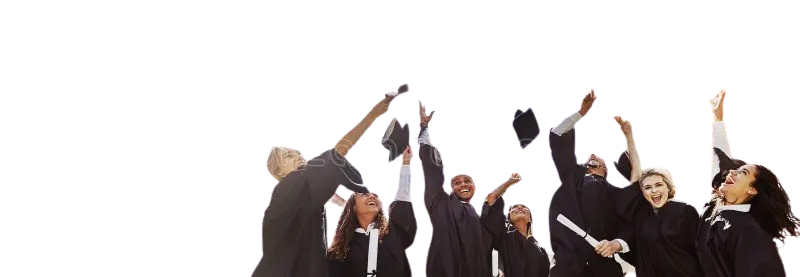
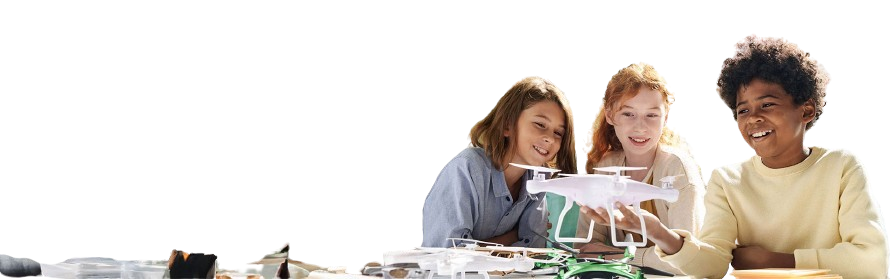
all added and modified

diff --git a/src/components/ContactForm.jsx b/src/components/ContactForm.jsx
@@ -62,14 +62,14 @@ const ContactForm = () => {
       <div className="flex flex-col lg:flex-row shadow-2xl rounded-xl overflow-hidden bg-white">
         
         {/* Left Contact Info */}
-        <div className="lg:w-1/3 p-8 bg-[#57ffee] text-white flex flex-col justify-center space-y-6">
+        <div className="lg:w-1/3 p-8 bg-teal-500 text-white flex flex-col justify-center space-y-6">
           <h2 className="text-3xl font-bold text-eye">Need Help?
             <br/>Get in Touch!</h2>
-          <p className="text-[#575757]">Our support team is ready to assist you with your scholarship application or general questions.</p>
+          <p className="text-[#ffffff]">Our support team is ready to assist you with your scholarship application or general questions.</p>
           
           <div className="space-y-4 pt-4">
             <div className="flex items-center space-x-3">
-              <Mail className="w-10 h-10 text-blue-200"/>
+              
               <p className="text-lg text-eye">support@scholarshipstream.com</p>
             </div>
             <div className="flex items-center space-x-3">

diff --git a/src/pages/Auth/Register.jsx b/src/pages/Auth/Register.jsx
@@ -47,10 +47,10 @@ const Register = () => {
         role: "student",
       };
       
-      const dbRes = await axios.post("http://localhost:3000/users", userInfo);
+      const dbRes = await axios.post("https://scholarship-management-platform-ser.vercel.app/users", userInfo);
 
       if (dbRes.data.insertedId || dbRes.data.message === 'User already exists') {
-        const jwtRes = await axios.post("http://localhost:3000/jwt", { email: data.email });
+        const jwtRes = await axios.post("https://scholarship-management-platform-ser.vercel.app/jwt", { email: data.email });
         if (jwtRes.data.token) {
           localStorage.setItem("access-token", jwtRes.data.token);
           toast.success("Registration Successful!");

diff --git a/src/components/CheckoutForm.jsx b/src/components/CheckoutForm.jsx
@@ -16,6 +16,8 @@ const CheckoutForm = ({
   const [error, setError] = useState("");
   const [processing, setProcessing] = useState(false);
 
+  console.log(scholarshipDetails)
+
   const stripe = useStripe();
   const elements = useElements();
   const axiosSecure = useAxiosSecure();
@@ -49,6 +51,7 @@ const CheckoutForm = ({
 
   const saveApplication = async (transactionId, paidAmount) => {
     const scholarshipName = scholarshipDetails?.scholarshipName || "Unknown Scholarship";
+    console.log(scholarshipDetails)
         const universityName = scholarshipDetails?.universityName || "Unknown University";
 
     const applicationData = {

diff --git a/src/pages/Auth/Login.jsx b/src/pages/Auth/Login.jsx
@@ -40,12 +40,12 @@ const Login = () => {
       };
 
       try {
-        await axios.post("http://localhost:3000/users", userInfo);
+        await axios.post("https://scholarship-management-platform-ser.vercel.app/users", userInfo);
       } catch (userErr) {
         console.log("User already exists or error saving user");
       }
 
-      const res = await axios.post("http://localhost:3000/jwt", {
+      const res = await axios.post("https://scholarship-management-platform-ser.vercel.app/jwt", {
         email: user.email,
       });
 

diff --git a/src/routes/Router.jsx b/src/routes/Router.jsx
@@ -137,7 +137,7 @@ export const router = createBrowserRouter([
       {
         path: "updateScholarship/:id",
         element: <UpdateScholarship />,
-        loader: ({ params }) =>   fetch(`http://localhost:3000/scholarship/${params.id}`)
+        loader: ({ params }) =>   fetch(`https://scholarship-management-platform-ser.vercel.app/scholarship/${params.id}`)
       },
       { path: "manage-users", element: <ManageUsers /> },
       { path: "analytics", element: <Analytics /> },

diff --git a/src/pages/Dashboard/AllScholarships.jsx b/src/pages/Dashboard/AllScholarships.jsx
@@ -16,7 +16,7 @@ const AllScholarships = () => {
   const { data: rawData, isLoading, isError, error } = useQuery({
     queryKey: ["allScholarships"],
     queryFn: async () => {
-      const res = await axios.get("http://localhost:3000/all-scholarships");
+      const res = await axios.get("https://scholarship-management-platform-ser.vercel.app/all-scholarships");
        
       return res.data;
     },

diff --git a/src/pages/Auth/SocialLogin.jsx b/src/pages/Auth/SocialLogin.jsx
@@ -15,7 +15,7 @@ const SocialLogin = () => {
         const user = result.user;
 
         try {
-          const res = await         axios.post("http://localhost:3000/jwt", {
+          const res = await         axios.post("https://scholarship-management-platform-ser.vercel.app/jwt", {
             email: user.email,
           });
           if (res.data.token) {

diff --git a/src/pages/AdminDashboard/MyApplications.jsx b/src/pages/AdminDashboard/MyApplications.jsx
@@ -28,6 +28,8 @@ const MyApplications = () => {
     enabled: !!user?.email && !loading,
   });
 
+  console.log(applications)
+
   // Delete Mutation
   const deleteMutation = useMutation({
     mutationFn: async (applicationId) => {

diff --git a/src/index.css b/src/index.css
@@ -4,7 +4,7 @@
 @plugin "daisyui";
 
 body {
-  background-color: #e5fffc;
+  background-color: #ffffff;
   font-family: "Urbanist", sans-serif;
   font-optical-sizing: auto;
   font-style: normal;

diff --git a/src/pages/Dashboard/MyApplications.jsx b/src/pages/Dashboard/MyApplications.jsx
@@ -21,6 +21,7 @@ const MyApplications = () => {
     },
   });
 
+  console.log(myApplications)
  
   const handleReviewSubmit = async (e) => {
     e.preventDefault();
